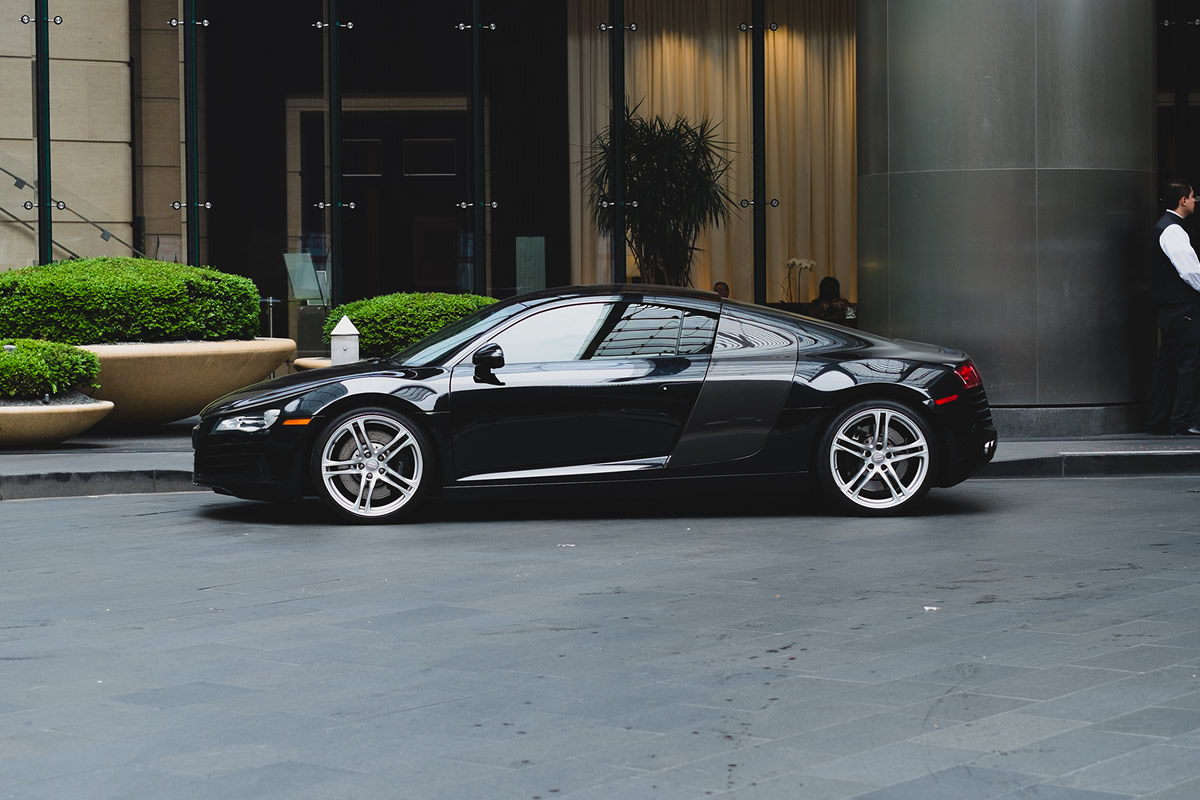
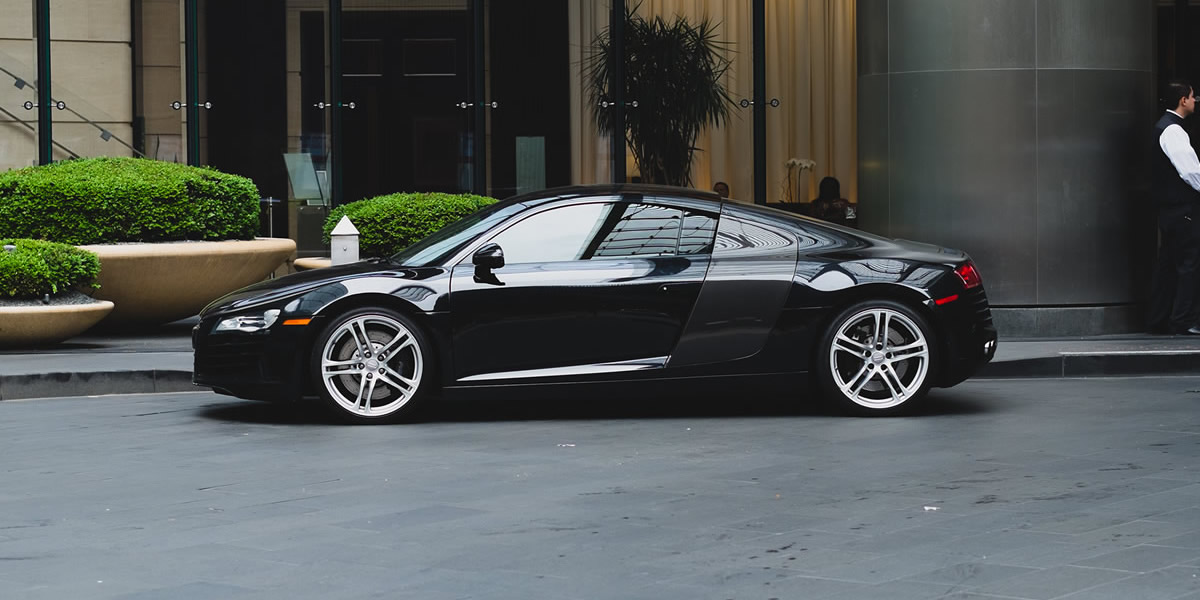
Optimize images for home and RedLegg.

diff --git a/assets/sass/pages/work/_redlegg.scss b/assets/sass/pages/work/_redlegg.scss
@@ -7,7 +7,7 @@ $project-color: #eb372f;
 // ==================================================
 .work-selected-item-link--redlegg {
   background-color: $project-color;
-  @include retina-background-image("work/redlegg/thumbnail.gif");
+  @include retina-background-image("work/redlegg/thumbnail.png");
   &:before {
     background-color: rgba($project-color, 0.6);
     @include linear-gradient(to right, rgba($project-color, 0.6), rgba($project-color, 0));
@@ -27,7 +27,7 @@ $project-color: #eb372f;
 // ==================================================
 .work-menu-item--redlegg {
   background-color: $project-color !important;
-  @include retina-background-image("work/redlegg/thumbnail.gif");
+  @include retina-background-image("work/redlegg/thumbnail.png");
   &:after {
     background-color: rgba($project-color, 0.5);
     @include linear-gradient(to right, rgba($project-color, 0.6), rgba($project-color, 0));
@@ -44,7 +44,7 @@ $project-color: #eb372f;
 // ==================================================
 .hero--redlegg {
   background-color: $project-color;
-  @include retina-background-image("work/redlegg/hero.gif");
+  @include retina-background-image("work/redlegg/hero.png");
   @include mq(small) {
     height: em-calc(233);
   }
@@ -53,7 +53,7 @@ $project-color: #eb372f;
   }
   @include mq(large) {
     height: em-calc(300);
-    background-image: image-url("work/redlegg/hero@2x.gif");
+    background-image: image-url("work/redlegg/hero@2x.png");
   }
 }
 

diff --git a/assets/sass/pages/_home.scss b/assets/sass/pages/_home.scss
@@ -7,7 +7,7 @@
     height: em-calc(425);
   }
   @include retina-background-image("audi.jpg");
-  @include mq(medium) {
+  @include mq(large) {
     background-image: image-url("audi@2x.jpg");
   }
 
